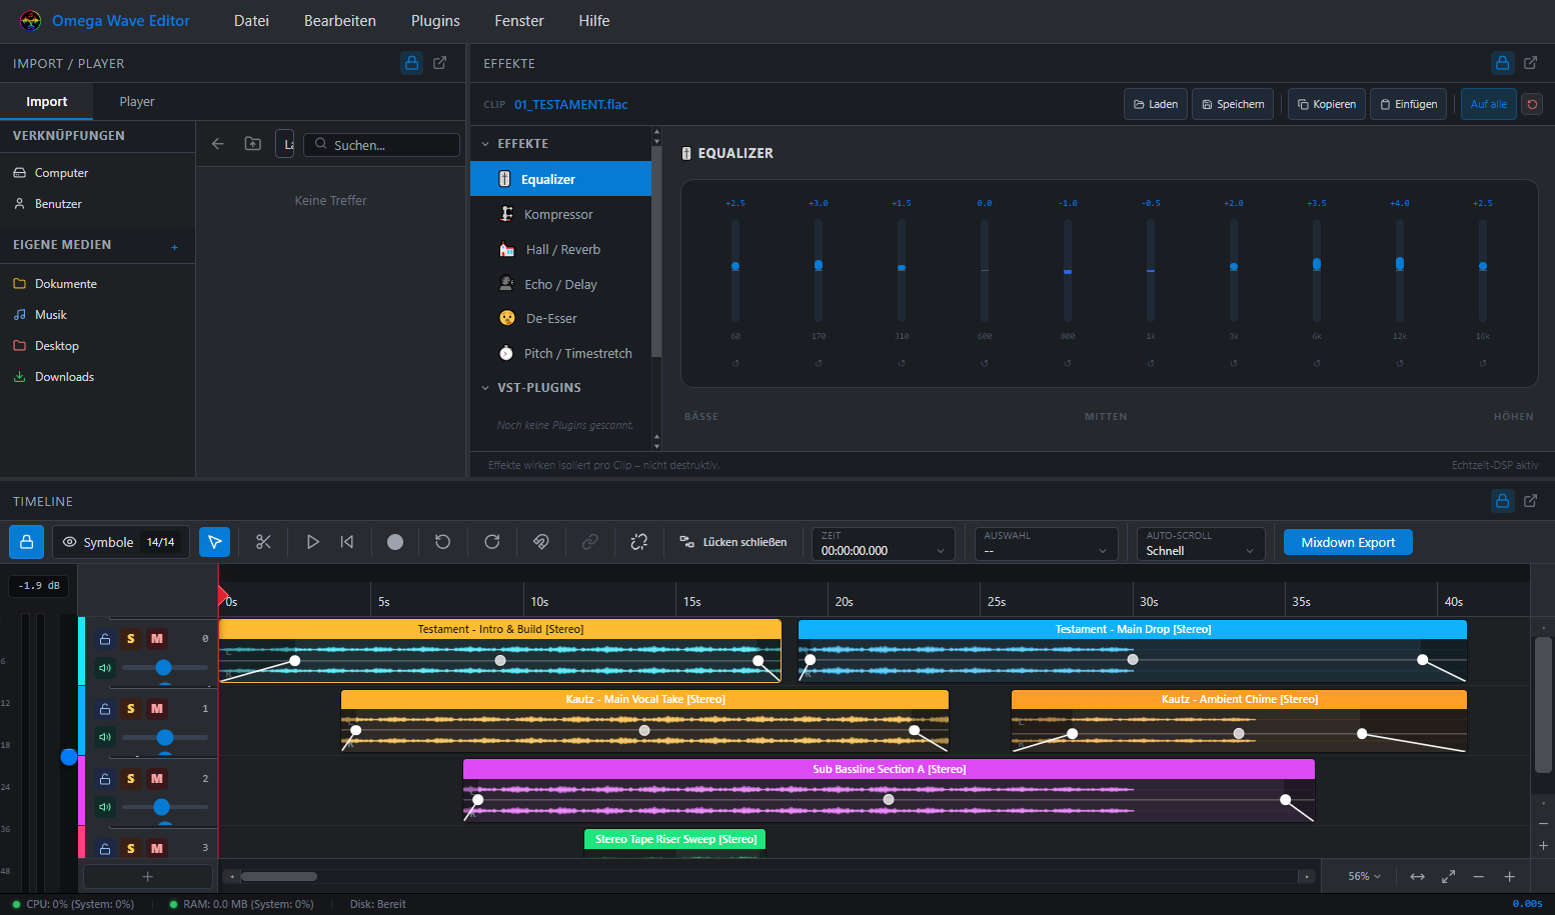
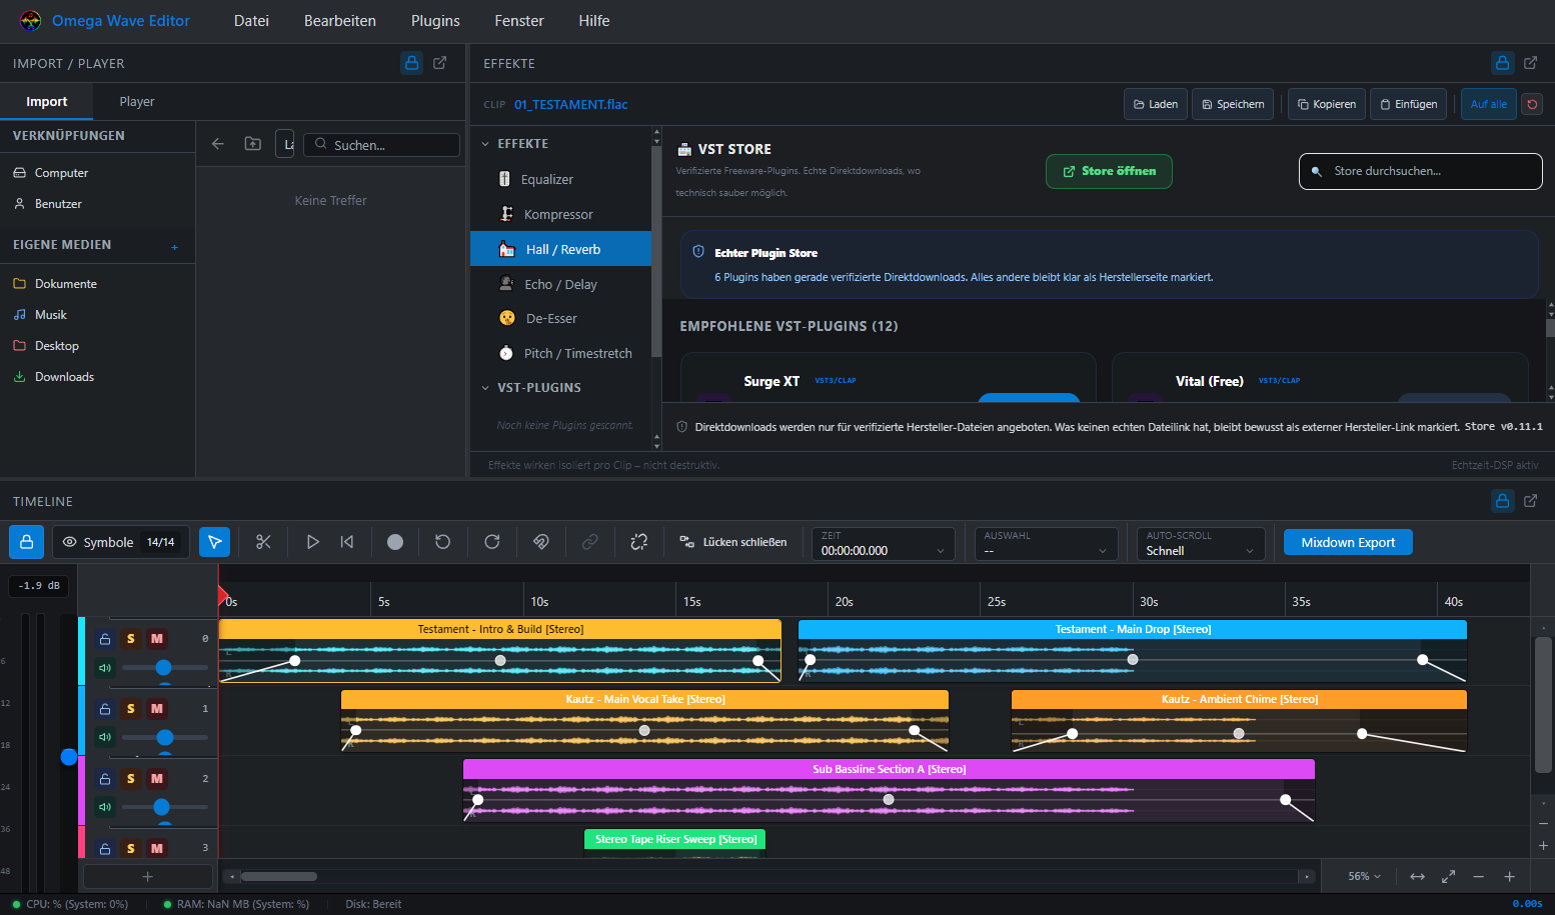
docs: expand screenshot catalog to 14 high-res views covering all DAW modules

diff --git a/scripts/capture_full_catalog.js b/scripts/capture_full_catalog.js
@@ -10,7 +10,9 @@ function setupIpcMocks() {
     'get-recent-projects', 'get-project-details', 'get-theme-colors',
     'save-theme-colors', 'save-settings', 'get-app-version', 'get-system-info',
     'check-for-updates', 'get-changelog', 'log-message', 'read-file-buffer',
-    'get-audio-metadata', 'get-audio-analysis', 'waveform:cancel-trace'
+    'get-audio-metadata', 'get-audio-analysis', 'waveform:cancel-trace',
+    'get-locales', 'get-system-path', 'scan-vst-plugins', 'write-log',
+    'get-startup-file', 'get-home-dir', 'get-performance-stats', 'get-asio-drivers'
   ]
   noopHandlers.forEach(ch => {
     try { ipcMain.handle(ch, async () => ({})) } catch (e) {}
@@ -24,6 +26,21 @@ function setupIpcMocks() {
       halfWaveform: false,
       theme: 'dark',
       language: 'de'
+    }))
+  } catch (e) {}
+
+  try {
+    ipcMain.handle('get-settings', async () => ({
+      waveformColor: '#00E5FF',
+      waveformOpacity: 0.9,
+      waveformShowRms: true,
+      halfWaveform: false,
+      theme: 'dark',
+      language: 'de',
+      sampleRate: 48000,
+      bitDepth: 24,
+      channels: 2,
+      latency: 128
     }))
   } catch (e) {}
 
@@ -109,45 +126,74 @@ app.whenReady().then(async () => {
   `)
   await new Promise(r => setTimeout(r, 3000))
 
-  // 1. Main Timeline Workspace
+  // 1. Main Multitrack Studio Workspace
   const img1 = await win.webContents.capturePage()
   fs.writeFileSync(path.join(assetsDir, 'screenshot_1.png'), img1.toPNG())
-  console.log('✅ 1/7 Captured assets/screenshot_1.png (Main Multitrack Timeline)')
+  console.log('✅ 1/14 Captured assets/screenshot_1.png (Main Multitrack Timeline)')
 
-  // 2. Equalizer & DSP Effects
+  // 2. Equalizer & DSP Effects (select clip)
   await win.webContents.executeJavaScript(`
     if (window.__selectClip) window.__selectClip("reg-1-intro");
-    const clipEl = document.querySelector('[data-region-id="reg-1-intro"]');
-    if (clipEl) clipEl.dispatchEvent(new MouseEvent('click', { bubbles: true }));
-    const eqItem = Array.from(document.querySelectorAll("div, button, span")).find(el => el.textContent === "Equalizer");
-    if (eqItem) eqItem.click();
+    if (window.__setEffectView) window.__setEffectView('eq');
   `)
-  await new Promise(r => setTimeout(r, 1200))
+  await new Promise(r => setTimeout(r, 1000))
   const img2 = await win.webContents.capturePage()
   fs.writeFileSync(path.join(assetsDir, 'screenshot_2.png'), img2.toPNG())
-  console.log('✅ 2/7 Captured assets/screenshot_2.png (10-Band Graphic Equalizer & DSP)')
+  console.log('✅ 2/14 Captured assets/screenshot_2.png (10-Band Graphic Equalizer & DSP)')
 
-  // 3. VST Store
+  // 3. Dynamics Compressor Effect View
+  await win.webContents.executeJavaScript(`
+    if (window.__setEffectView) window.__setEffectView('comp');
+  `)
+  await new Promise(r => setTimeout(r, 1000))
+  const imgComp = await win.webContents.capturePage()
+  fs.writeFileSync(path.join(assetsDir, 'screenshot_effects_compressor.png'), imgComp.toPNG())
+  console.log('✅ 3/14 Captured assets/screenshot_effects_compressor.png (Dynamics Compressor)')
+
+  // 4. Spatial Reverb & Echo Delay Effect View
+  await win.webContents.executeJavaScript(`
+    if (window.__setEffectView) window.__setEffectView('reverb');
+  `)
+  await new Promise(r => setTimeout(r, 1000))
+  const imgReverb = await win.webContents.capturePage()
+  fs.writeFileSync(path.join(assetsDir, 'screenshot_effects_reverb.png'), imgReverb.toPNG())
+  console.log('✅ 4/14 Captured assets/screenshot_effects_reverb.png (Spatial Reverb & Delay)')
+
+  // 5. Audio Cleaning & Restoration Suite
+  await win.webContents.executeJavaScript(`
+    if (window.__openTimelineModal) window.__openTimelineModal('cleaning');
+  `)
+  await new Promise(r => setTimeout(r, 1200))
+  const imgCleaning = await win.webContents.capturePage()
+  fs.writeFileSync(path.join(assetsDir, 'screenshot_cleaning.png'), imgCleaning.toPNG())
+  console.log('✅ 5/14 Captured assets/screenshot_cleaning.png (Audio Cleaning & Restoration Suite)')
+
+  // 6. Object Properties & Pitch/Time-Stretching Modal
+  await win.webContents.executeJavaScript(`
+    if (window.__openTimelineModal) window.__openTimelineModal('properties');
+  `)
+  await new Promise(r => setTimeout(r, 1200))
+  const imgProps = await win.webContents.capturePage()
+  fs.writeFileSync(path.join(assetsDir, 'screenshot_object_properties.png'), imgProps.toPNG())
+  console.log('✅ 6/14 Captured assets/screenshot_object_properties.png (Object Properties & Pitch/Time)')
+
+  // Close Timeline modals
+  await win.webContents.executeJavaScript(`
+    if (window.__openTimelineModal) window.__openTimelineModal(null);
+  `)
+  await new Promise(r => setTimeout(r, 500))
+
+  // 7. VST Store
   await win.webContents.executeJavaScript(`
     if (window.__openScreenshotModal) window.__openScreenshotModal(null);
-    const storeBtn = Array.from(document.querySelectorAll("button, div, span")).find(b => b.textContent && b.textContent.includes("VST Store"));
-    if (storeBtn) storeBtn.click();
+    if (window.__setEffectMainView) window.__setEffectMainView('vst_store');
   `)
   await new Promise(r => setTimeout(r, 1200))
   const imgVst = await win.webContents.capturePage()
   fs.writeFileSync(path.join(assetsDir, 'screenshot_vst_store.png'), imgVst.toPNG())
-  console.log('✅ 3/7 Captured assets/screenshot_vst_store.png (Curated VST Plugin Store)')
+  console.log('✅ 7/14 Captured assets/screenshot_vst_store.png (Curated VST Plugin Store)')
 
-  // 4. Changelog Modal
-  await win.webContents.executeJavaScript(`
-    if (window.__openScreenshotModal) window.__openScreenshotModal("changelog");
-  `)
-  await new Promise(r => setTimeout(r, 1500))
-  const imgChangelog = await win.webContents.capturePage()
-  fs.writeFileSync(path.join(assetsDir, 'screenshot_changelog.png'), imgChangelog.toPNG())
-  console.log('✅ 4/7 Captured assets/screenshot_changelog.png (In-App Changelog Modal)')
-
-  // 5. Settings Modal
+  // 8. Settings Modal (Appearance Tab)
   await win.webContents.executeJavaScript(`
     if (window.__openScreenshotModal) window.__openScreenshotModal("settings");
     setTimeout(() => {
@@ -158,26 +204,84 @@ app.whenReady().then(async () => {
   await new Promise(r => setTimeout(r, 1500))
   const imgSettings = await win.webContents.capturePage()
   fs.writeFileSync(path.join(assetsDir, 'screenshot_settings.png'), imgSettings.toPNG())
-  console.log('✅ 5/7 Captured assets/screenshot_settings.png (Appearance Settings)')
+  console.log('✅ 8/14 Captured assets/screenshot_settings.png (Appearance Settings)')
 
-  // 6. User Manual Modal
+  // 9. Toolbar & Symbol Manager Modal
+  await win.webContents.executeJavaScript(`
+    if (window.__openScreenshotModal) window.__openScreenshotModal("symbols");
+  `)
+  await new Promise(r => setTimeout(r, 1500))
+  const imgSymbols = await win.webContents.capturePage()
+  fs.writeFileSync(path.join(assetsDir, 'screenshot_toolbar_symbols.png'), imgSymbols.toPNG())
+  console.log('✅ 9/14 Captured assets/screenshot_toolbar_symbols.png (Symbol & Toolbar Manager)')
+
+  // 10. In-App Changelog Modal
+  await win.webContents.executeJavaScript(`
+    if (window.__openScreenshotModal) window.__openScreenshotModal("changelog");
+  `)
+  await new Promise(r => setTimeout(r, 1500))
+  const imgChangelog = await win.webContents.capturePage()
+  fs.writeFileSync(path.join(assetsDir, 'screenshot_changelog.png'), imgChangelog.toPNG())
+  console.log('✅ 10/14 Captured assets/screenshot_changelog.png (In-App Changelog Modal)')
+
+  // 11. User Manual Modal
   await win.webContents.executeJavaScript(`
     if (window.__openScreenshotModal) window.__openScreenshotModal("manual");
   `)
   await new Promise(r => setTimeout(r, 1500))
   const imgManual = await win.webContents.capturePage()
   fs.writeFileSync(path.join(assetsDir, 'screenshot_manual.png'), imgManual.toPNG())
-  console.log('✅ 6/7 Captured assets/screenshot_manual.png (Bilingual User Manual)')
+  console.log('✅ 11/14 Captured assets/screenshot_manual.png (Bilingual User Manual)')
 
-  // 7. Mixdown Export Modal
+  // 12. Mixdown Export Modal
   await win.webContents.executeJavaScript(`
     if (window.__openScreenshotModal) window.__openScreenshotModal("export");
   `)
   await new Promise(r => setTimeout(r, 1500))
   const imgExport = await win.webContents.capturePage()
   fs.writeFileSync(path.join(assetsDir, 'screenshot_export.png'), imgExport.toPNG())
-  console.log('✅ 7/7 Captured assets/screenshot_export.png (Mixdown & ID3 Export)')
+  console.log('✅ 12/14 Captured assets/screenshot_export.png (Mixdown & ID3 Export)')
 
-  console.log('🎉 ALL 7 SCREENSHOTS FULLY UPDATED AND SAVED!')
+  win.close()
+
+  // 13. Standalone Window: Live Audio Recording Studio
+  const recWin = new BrowserWindow({
+    width: 820,
+    height: 620,
+    show: false,
+    webPreferences: {
+      preload: path.join(__dirname, '../out/preload/index.js'),
+      sandbox: false,
+      contextIsolation: true,
+      webSecurity: false
+    }
+  })
+  await recWin.loadFile(path.join(__dirname, '../out/renderer/index.html'), { query: { window: 'audio-recorder' } })
+  await new Promise(r => setTimeout(r, 1500))
+  const imgRec = await recWin.webContents.capturePage()
+  fs.writeFileSync(path.join(assetsDir, 'screenshot_recording.png'), imgRec.toPNG())
+  console.log('✅ 13/14 Captured assets/screenshot_recording.png (Live Audio Recording Studio)')
+  recWin.close()
+
+  // 14. Standalone Window: Diagnostic Log Viewer
+  const logWin = new BrowserWindow({
+    width: 880,
+    height: 640,
+    show: false,
+    webPreferences: {
+      preload: path.join(__dirname, '../out/preload/index.js'),
+      sandbox: false,
+      contextIsolation: true,
+      webSecurity: false
+    }
+  })
+  await logWin.loadFile(path.join(__dirname, '../out/renderer/index.html'), { query: { window: 'logs' } })
+  await new Promise(r => setTimeout(r, 1500))
+  const imgLog = await logWin.webContents.capturePage()
+  fs.writeFileSync(path.join(assetsDir, 'screenshot_log_viewer.png'), imgLog.toPNG())
+  console.log('✅ 14/14 Captured assets/screenshot_log_viewer.png (Diagnostic Log Viewer)')
+  logWin.close()
+
+  console.log('🎉 ALL 14 HIGH-RESOLUTION SCREENSHOTS FULLY GENERATED AND SAVED!')
   app.quit()
 })

diff --git a/src/renderer/src/components/EffectsPanel.tsx b/src/renderer/src/components/EffectsPanel.tsx
@@ -214,6 +214,16 @@ export function EffectsPanel({
   const [vstOpen, setVstOpen] = useState(true)
   const [selectedItem, setSelectedItem] = useState<string>('eq')
   const [activeView, setActiveView] = useState<'effects' | 'vst_rack' | 'vst_store'>('effects')
+
+  if (typeof window !== 'undefined') {
+    (window as any).__setEffectView = (effectId: string) => {
+      setSelectedItem(effectId)
+      setActiveView('effects')
+    };
+    (window as any).__setEffectMainView = (view: 'effects' | 'vst_rack' | 'vst_store') => {
+      setActiveView(view)
+    };
+  }
   // Beim Start vorhandene Plugin-Registry laden und filtern
   useEffect(() => {
     const loadPlugins = () => {

diff --git a/src/renderer/src/App.tsx b/src/renderer/src/App.tsx
@@ -355,11 +355,14 @@ function App(): JSX.Element {
       setShowSettings(false)
       setShowExport(false)
       setShowAbout(false)
+      setShowSymbolManager(false)
+      setShowStartDashboard(false)
       if (name === 'changelog') setShowChangelog(true)
       if (name === 'manual') setShowManual(true)
       if (name === 'settings') { setSettingsTab(payload || 'Darstellung'); setShowSettings(true) }
       if (name === 'export') setShowExport(true)
       if (name === 'about') setShowAbout(true)
+      if (name === 'symbols') setShowSymbolManager(true)
     };
     (window as any).__selectClip = (regionId: string) => {
       setSelectedRegionIds(new Set([regionId]))

diff --git a/src/renderer/src/components/Timeline.tsx b/src/renderer/src/components/Timeline.tsx
@@ -1813,6 +1813,15 @@ export function Timeline({
   const [showCleaning, setShowCleaning] = useState(false)
   const [showProperties, setShowProperties] = useState(false)
 
+  if (typeof window !== 'undefined') {
+    (window as any).__openTimelineModal = (name: string) => {
+      setShowCleaning(false)
+      setShowProperties(false)
+      if (name === 'cleaning') setShowCleaning(true)
+      if (name === 'properties') setShowProperties(true)
+    }
+  }
+
   const applyScrollVisuals = useCallback((nextLeft: number, nextTop: number) => {
     if (stripContentRef.current) {
       stripContentRef.current.style.transform = `translateX(-${nextLeft}px)`

diff --git a/README.md b/README.md
@@ -57,23 +57,37 @@ Get the latest stable version of **Omega Wave Editor** directly from our [Releas
 | 🎛 Multitrack Studio Workspace | 🎚 10-Band Graphic EQ & DSP Effects |
 | :---: | :---: |
 | <img src="assets/screenshot_1.png" alt="Omega Wave Editor Multitrack Timeline" width="100%" /> | <img src="assets/screenshot_2.png" alt="10-Band Graphic EQ & Real-Time DSP Effects" width="100%" /> |
-| *Non-destructive multitrack arrangement with colored cuts, volume envelopes & fade handles.* | *Real-time per-clip DSP chain with 10-band EQ, Dynamics Compressor & Reverb.* |
+| *Non-destructive multitrack arrangement with colored tracks, volume envelopes & fade handles.* | *Real-time per-clip DSP chain with 10-band EQ, Dynamics Compressor & Reverb.* |
 
-| 🏪 Curated In-App VST Plugin Store | 📜 In-App Changelog & Release Notes |
+| 🗜 Pro Dynamics Compressor | ⛪ Spatial Reverb & Stereo Delay |
 | :---: | :---: |
-| <img src="assets/screenshot_vst_store.png" alt="In-App VST Plugin Store" width="100%" /> | <img src="assets/screenshot_changelog.png" alt="In-App Changelog Viewer" width="100%" /> |
-| *1-click freeware discovery and automatic installation (Vital, Surge XT, Dexed, Kotelnikov).* | *Modern bilingual changelog with color-coded category badges and user-friendly notes.* |
+| <img src="assets/screenshot_effects_compressor.png" alt="Dynamics Compressor and Limiter" width="100%" /> | <img src="assets/screenshot_effects_reverb.png" alt="Spatial Reverb and Delay" width="100%" /> |
+| *Accurate transient control with threshold, ratio, attack, release and auto-gain makeup.* | *Studio-grade algorithmic reverb and synchronized ping-pong delay effects.* |
 
-| 🎨 Appearance & Waveform Customization | 📦 High-Resolution Mixdown & ID3 Studio |
+| 🧹 Audio Cleaning & Restoration Suite | 🎙 Live Audio Recording Studio |
 | :---: | :---: |
-| <img src="assets/screenshot_settings.png" alt="Appearance & Waveform Customization Settings" width="100%" /> | <img src="assets/screenshot_export.png" alt="Audio Mixdown & ID3 Studio" width="100%" /> |
-| *Personalize waveform colors, opacity, RMS energy core, and half-waveform views.* | *Lossless WAV/FLAC & MP3 export with 24-bit Studio mastering & embedded ID3 tags.* |
+| <img src="assets/screenshot_cleaning.png" alt="Audio Cleaning and Restoration Suite" width="100%" /> | <img src="assets/screenshot_recording.png" alt="Live Audio Recording Studio" width="100%" /> |
+| *DeClipper, DeNoiser, DeHisser, stereo widening, and balance tools with live preview.* | *Professional multi-input recording studio with VU metering, ASIO support & zero latency.* |
 
-<p align="center">
-  <img src="assets/screenshot_manual.png" alt="Bilingual In-App User Manual" width="85%" />
-  <br />
-  <em>Integrated bilingual reference manual explaining workflows, hotkeys, and modular window docking.</em>
-</p>
+| 🏪 Curated In-App VST Plugin Store | 🎨 Appearance & Waveform Customization |
+| :---: | :---: |
+| <img src="assets/screenshot_vst_store.png" alt="In-App VST Plugin Store" width="100%" /> | <img src="assets/screenshot_settings.png" alt="Appearance & Waveform Customization Settings" width="100%" /> |
+| *1-click freeware discovery and automatic installation (Vital, Surge XT, Dexed, Kotelnikov).* | *Personalize waveform colors, opacity, RMS energy core, and half-waveform views.* |
+
+| 🛠 Symbol & Toolbar Manager | ⏱ Clip Properties & Pitch/Time-Stretch |
+| :---: | :---: |
+| <img src="assets/screenshot_toolbar_symbols.png" alt="Toolbar and Symbol Customization Manager" width="100%" /> | <img src="assets/screenshot_object_properties.png" alt="Object Properties and Pitch/Time-Stretching" width="100%" /> |
+| *Reorganize toolbars, toggle visibility, and customize your personalized DAW layout.* | *Inspect audio file metadata, source paths, and non-destructive pitch & speed tuning.* |
+
+| 📦 High-Resolution Mixdown & ID3 Studio | 📜 In-App Changelog & Release Notes |
+| :---: | :---: |
+| <img src="assets/screenshot_export.png" alt="Audio Mixdown & ID3 Studio" width="100%" /> | <img src="assets/screenshot_changelog.png" alt="In-App Changelog Viewer" width="100%" /> |
+| *Lossless WAV/FLAC & MP3 export with 24-bit Studio mastering & embedded ID3 tags.* | *Modern bilingual changelog with color-coded category badges and user-friendly notes.* |
+
+| 📖 Bilingual User Manual | 📋 System Diagnostics & Log Monitor |
+| :---: | :---: |
+| <img src="assets/screenshot_manual.png" alt="Bilingual In-App User Manual" width="100%" /> | <img src="assets/screenshot_log_viewer.png" alt="Diagnostic Log Viewer and Event Stream" width="100%" /> |
+| *Integrated reference manual explaining workflows, hotkeys, and modular window docking.* | *Real-time session logger and diagnostic monitor for audio buffers and IPC traces.* |
 
 ---
 
